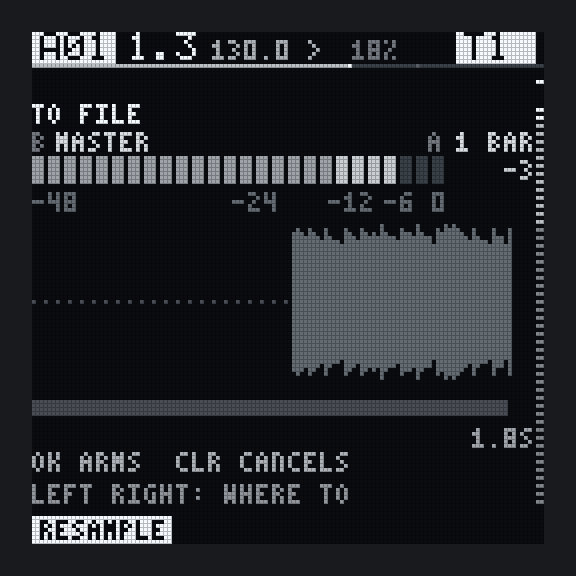
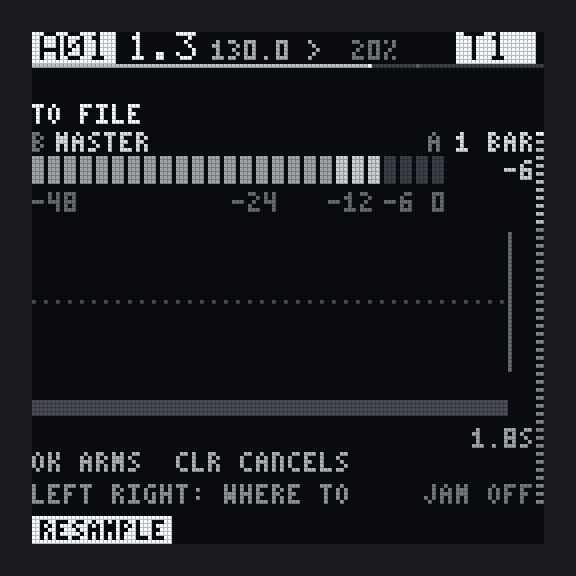
docs, scenario: the three shortcuts in the manual, cheatsheet and W64
New emulator scenario shortcuts drives MIXER's group jumps, the KEYS
track menu and JAM REC on FUNC+REC twice. RESAMPLE's screenshot redrawn.

Claude-Session: https://claude.ai/code/session_01Tw2EaFtqKDN3sm3kKLkEuG

diff --git a/docs/FEATURES.md b/docs/FEATURES.md
@@ -69,7 +69,7 @@ UNIT_CHECKLIST.md's ~550 boxes, 4 are ticked.
 | HOME = GRID, HOME twice = KEYS | v0.1.0 | ◐ | |
 | Lit, self-naming performance pads; mode keys green/red by screen | v0.1.0 | ○ (W8, W20c) | Upper pads are printed TRK 1-7 but are performance pads (Roland's choice) |
 | Arrow-key navigation model (UP/DOWN rows, LEFT/RIGHT sideways, OK picks, CLR back) | v0.1.0 | ○ (5, "Arrow keys") | |
-| Screens: GRID, step page, EDIT (6 pages, 8 on the VA, WAVE, FM4 and GRAIN machines), MACHINE, KIT, SOUNDS, KEYS, MIXER (12 pages), PERFORM, PROJECT (5 pages), SAMPLES, RESAMPLE, menu | v0.1.0 | ◐ (4) | |
+| Screens: GRID, step page, EDIT (6 pages, 8 on the VA, WAVE, FM4 and GRAIN machines), MACHINE, KIT, SOUNDS, KEYS, MIXER (17 pages; UP/DOWN jump a group), PERFORM, PROJECT (5 pages), SAMPLES, RESAMPLE, menu | v0.1.0 | ◐ (4) | |
 | Fixes: the FUNC menu never shows a MUTATE verdict OK would not give; OK in RESAMPLE no longer retargets a take being written | #84 | ○ | |
 
 ## Engines (machines)
@@ -159,7 +159,7 @@ FM4 and GRAIN machines.
 | Pad pressure bends macro A | v0.1.0 | ○ ("Pad feel") | |
 | THROW to delay or reverb | v0.1.0 | ◐ | |
 | MUTATE (rotate, density, velocity, micro, chance, notes), OK keeps, CLR reverts | v0.1.0 | ○ (10) | |
-| **GEN and EVOLVE** (hold OK in GRID): a new drum or melodic part in the key (DENSITY, RANGE, LEAP, WHAT); a track mutating on its own every 1-8 loops, ORBIT or DRIFT, KEEP or HOME | #195, #200 | ○ (W52, W53) | The mutation and amount are PERFORM's MUTATE setting; MIX draws one each turn. Saved in PROJECT.BIN (section 7); HOME is not |
+| **GEN and EVOLVE** (hold OK in GRID or KEYS): a new drum or melodic part in the key (DENSITY, RANGE, LEAP, WHAT); a track mutating on its own every 1-8 loops, ORBIT or DRIFT, KEEP or HOME | #195, #200 | ○ (W52, W53) | The mutation and amount are PERFORM's MUTATE setting; MIX draws one each turn. Saved in PROJECT.BIN (section 7); HOME is not |
 | Note repeat on the pads, pressure as velocity | v0.1.0 | ○ (13f) | Recorded with REC as a roll over LEN (P3, #187; not at 1/4T) |
 | Step stutter: hold REPEAT + STEP loops that step on every track (FUNC: one track) | #151 | ○ (W11) | Sequencer, not audio: sounds stay live. Host-tested; the emulator cannot press pads |
 | Roll rate on LEFT/RIGHT under REPEAT or a rolling pad, on the live strip | #151 | ○ (W11) | |
@@ -176,7 +176,7 @@ FM4 and GRAIN machines.
 | --- | --- | --- | --- |
 | Insert chain per track: drive, filter (LP/BP/HP 12/24), lo-fi, amp, duck, pan, level | v0.1.0 | ◐ (W54) | Off stages cost nothing. A DC blocker follows the drive since #191 |
 | **Sidechain duck**, editable: depth per track, source track, attack/hold/release | v0.1.0, editable since #89 | ○ (13l) | MIXER pages DCK 1-4, DCK 5-8, DUCK. Saved in the kit (KIT.BIN section 6; older kits open with the v0.1.0 duck: track 1, 35%, 3/40/120 ms). Not p-lockable, not in scenes or macros: a lock slot would change the pattern and scene file layouts |
-| **JAM REC**: the whole jam to `/RECORD/JAM_<n>.WAV`, FUNC menu's last row, a REC dot in the top bar | #226 | ○ (W63) | The finished master (as RESAMPLE's MASTER take), never the click or the audition. 48 kHz 24-bit stereo through an Enaga recording stream, 1 MiB ring; stops cleanly on a full card, at 3 h 51 min, at shutdown; a pulled card leaves the file without its header. Card speed beside four sample streams unmeasured |
+| **JAM REC**: the whole jam to `/RECORD/JAM_<n>.WAV`, FUNC+REC twice (RESAMPLE, then again) or the FUNC menu's last row; a REC dot in the top bar and a dim red blink on REC | #226, this PR | ○ (W63, W64) | The finished master (as RESAMPLE's MASTER take), never the click or the audition. 48 kHz 24-bit stereo through an Enaga recording stream, 1 MiB ring; stops cleanly on a full card, at 3 h 51 min, at shutdown; a pulled card leaves the file without its header. Card speed beside four sample streams unmeasured |
 | **CLICK and COUNT-IN**: a metronome, and 1 or 2 bars clicked before a PLAY with REC on (CyDrums S6) | #182 | ○ (W47) | FUNC menu rows. STRATA's own click (Enaga has none), 1 kHz / 1.6 kHz on a bar, after RESAMPLE's tap, so never recorded. A count-in starts the clock at once and holds the sequencer, rolls, stutter and arps for its bars. Internal clock only. Not saved |
 | **Choke groups** 1-4 for any track: a note cuts the other tracks of its group (CyDrums S4) | #181 | ○ (W46) | Push A-D on MIXER's TRK pages; `C1`-`C4` on the strip. A 64-frame fade on the track's output, then its voices are cut. Two notes of a group on the same frame both sound (a block renders whole). Saved in the kit (KIT.BIN section 11; older kits have no groups) |
 | Send A: tempo-synced ping-pong delay | v0.1.0 | ◐ (13c / U4) | |

diff --git a/docs/CONTROLS.md b/docs/CONTROLS.md
@@ -46,7 +46,7 @@ HOME "system", PLAY "◀◀", STOP "▶▶", MIXER "fx", EDIT "rec src".
      second label.**
    - **Arrow pad:** the cursor on the screen. UP/DOWN rows, LEFT/RIGHT sideways. OK picks, CLR
      goes back (or clears, where there is something selected to clear).
-   - **Screen keys:** the screen's pages. EDIT SRC FLTR AMP FX LFO ARP ENV OSC; MIXER's twelve; PROJECT,
+   - **Screen keys:** the screen's pages. EDIT SRC FLTR AMP FX LFO ARP ENV OSC; MIXER's seventeen; PROJECT,
      CHAIN, PATTERN, SETUP, PROJECTS; the step page's field pages; SAMPLES' and KIT's pages of
      eight. On GRID and KEYS, where A-D turn the current EDIT page, they turn that page. The
      one-page screens give them their one sideways setting: MACHINE and SOUNDS the track,
@@ -124,7 +124,7 @@ HOME "system", PLAY "◀◀", STOP "▶▶", MIXER "fx", EDIT "rec src".
 | Key | Plain | FUNC + key (printed second label) | Lit |
 | --- | --- | --- | --- |
 | FUNC | modifier | — | green while held |
-| REC | live record on/off | RESAMPLE ("sampling") | red recording, green on RESAMPLE |
+| REC | live record on/off | RESAMPLE ("sampling"); again JAM REC on/off | red recording, green on RESAMPLE; a dim red blink while JAM REC records |
 | PROJECT | PROJECT: banks, patterns, chain, card | SAMPLES, the selected track's browser ("pool") | green PROJECT, red SAMPLES |
 | HOME | GRID, always. Double-tap (within 0.4 s, on GRID) = KEYS | **FUNC menu** ("system"); again closes it | green GRID, amber KEYS, red menu |
 | PLAY | play | restart from step 1 ("◀◀") | green running |
@@ -139,8 +139,8 @@ HOME "system", PLAY "◀◀", STOP "▶▶", MIXER "fx", EDIT "rec src".
 A list over whatever screen was up. UP/DOWN or A scroll, OK runs the row, LEFT/RIGHT or B change
 a setting row, CLR or FUNC + HOME closes it and returns to the screen it opened over. STEP
 keys, screen keys and pad-row keys do nothing in it. FUNC + CLR / OK stay undo and redo.
-The cursor starts on SAVE every time, so **FUNC + HOME, OK saves**, and the list wraps, so
-**FUNC + HOME, UP, OK starts or stops JAM REC**.
+The cursor starts on SAVE every time, so **FUNC + HOME, OK saves**. JAM REC has a key of its
+own as well: **FUNC + REC twice** (RESAMPLE, then again), as FUNC + EDIT twice is KIT.
 
 | Row | What OK does | Value (LEFT/RIGHT, B, or OK steps) |
 | --- | --- | --- |
@@ -165,7 +165,7 @@ The cursor starts on SAVE every time, so **FUNC + HOME, OK saves**, and the list
 | FREEZE | freeze the selected track (its loop from the next bar line), or unfreeze it | `T3 1 BAR` (1 2 4 8), `T3 WAIT` / `REC` while recording, `T3 ON` frozen |
 | LOOP LEN | | the performance mixer's looper: `4 BAR` (1 2 4 8), what push VALUE + STEP 16 records |
 | LOAD DEMO | OK twice within 2 s: the factory demo project (the boot beat), under a new name | |
-| JAM REC | starts recording the finished master to `/RECORD/JAM_<n>.WAV` and closes the menu (`JAM REC JAM 3`); OK again stops it (`JAM STOPPING`, then `SAVED JAM 3` once the file is closed). The last row: FUNC + HOME, UP, OK | `OFF`, or how long it has run, `4:07`, `1:02:33` |
+| JAM REC | starts recording the finished master to `/RECORD/JAM_<n>.WAV` and closes the menu (`JAM REC JAM 3`); OK again stops it (`JAM STOPPING`, then `SAVED JAM 3` once the file is closed). FUNC + REC on RESAMPLE does the same and stays on RESAMPLE, whose last line shows the time and `FUNC+REC: STOP JAM` (`JAM OFF` when none runs) | `OFF`, or how long it has run, `4:07`, `1:02:33` |
 
 Moved here from: FUNC + PROJECT twice (save), PROJECT's FUNC + UP/DOWN/LEFT/RIGHT (chain,
 sample reload, reload, new), PROJECTS' FUNC + DOWN (save as, still there too), CHAIN's FUNC +
@@ -293,11 +293,13 @@ ALL. FUNC + turn C in PERFORM only duplicated the macro before, so no gesture ch
   `BAR` line while stopped), `EN-` / `EN+` in the live strip. The FUNC help's third PERFORM page
   lists it.
 
-## GEN and EVOLVE (hold OK in GRID)
+## GEN and EVOLVE (hold OK in GRID or KEYS)
 
 Roland, 2026-11-27: generate a drum or melodic part, random but in the key, and let it mutate on
 its own every few loops. `core/generate.hpp`, `core/evolve.hpp`, `app/ui_trackmenu.hpp`. OK in
-GRID with nothing held did nothing, so the hold costs no gesture; a tap still does nothing.
+GRID with nothing held did nothing, so the hold costs no gesture; a tap still does nothing. KEYS
+has the same hold (usability review, 2026-11-28): GEN on a melodic track while playing the pads.
+There the pads stay the piano, and the arrows are the menu's until CLR closes it (`KEYS`).
 
 | Row | Does | Says |
 | --- | --- | --- |

diff --git a/docs/MANUAL.md b/docs/MANUAL.md
@@ -430,7 +430,7 @@ level: OK keeps it, CLR takes it back.
 
 <p><img src="screens/trackmenu.png" width="256" alt="The track menu, held OK in GRID: GENERATE and its settings, EVOLVE, MODE, MUTATION, AMOUNT"></p>
 
-**Hold OK in GRID** for the track menu. **GENERATE** writes a new part on the selected track: on
+**Hold OK in GRID** (or in KEYS) for the track menu. **GENERATE** writes a new part on the selected track: on
 a drum track a rhythm, busier on the beats than between them, with accents and ghost notes; on a
 melodic track a line in the pattern's key and scale too, starting on the root. DENSITY sets how
 busy, RANGE how many octaves the line may climb, LEAP how often it jumps, and WHAT whether to
@@ -567,7 +567,8 @@ are the white keys C to C, the upper pads above them the black keys (C#, D#, F#,
 two upper pads with no black key are octave down (between E and F) and octave up (after B). Pads
 play at the strength you hit them and hold the note while down; the pads in the scale light in
 the track's colour, the root brightest; the screen draws the same keyboard. LEFT/RIGHT change
-octave, UP/DOWN the track, and FUNC + a pad still mutes on the bar. The STEP keys are the track's
+octave, UP/DOWN the track, and FUNC + a pad still mutes on the bar. **Hold OK** for the track menu
+(GENERATE and EVOLVE, below), as in GRID; the pads stay the piano while it is open. The STEP keys are the track's
 steps, as on GRID, with the pad-row keys for the step page, so you can play a line on the pads and
 place or fix steps at the same time. Press **REC** (it lights red) while playing and what you play is
 recorded onto the selected track, quantized by the SETUP page's QUANTIZE amount (100% by
@@ -1547,7 +1548,7 @@ tracks 3 and 4 is separate and still works without a group.
 
 <p><img src="screens/mixer.png" width="256" alt="MIXER: the faders of tracks 1-4"> <img src="screens/mixer_dly.png" width="256" alt="MIXER's DLY page"></p>
 
-<sub>MIXER's first page, all eight faders with A-D on tracks 1-4, and the DLY page. The screen keys walk all seventeen: TRK 1-4, TRK 5-8, DCK 1-4, DCK 5-8, DUCK, WID 1-4, WID 5-8, DLY, DLY+, REV, REV+, ROUTE, CHO 1-4, CHO 5-8, CHO, MST, EQ.</sub>
+<sub>MIXER's first page, all eight faders with A-D on tracks 1-4, and the DLY page. The screen keys walk all seventeen: TRK 1-4, TRK 5-8, DCK 1-4, DCK 5-8, DUCK, WID 1-4, WID 5-8, DLY, DLY+, REV, REV+, ROUTE, CHO 1-4, CHO 5-8, CHO, MST, EQ. UP/DOWN jump a group at a time, to its first page: the levels (TRK), the duck (DCK), the widths (WID), the delay (DLY), the reverb (REV), the chorus (CHO 1-4) and the master (MST).</sub>
 
 Each send has a second mode for long, washy sounds. They sit on the MIXER pages beside their
 send, `DLY+` after `DLY` and `REV+` after `REV`. **Push A** on either page (or turn A) flips the
@@ -1697,11 +1698,12 @@ muted track bounces as silence, so unmute it first.
 
 ### Recording the whole jam: JAM REC
 
-RESAMPLE keeps 30 seconds. To keep a whole set, use **JAM REC**, the FUNC menu's last row:
-FUNC+HOME, UP, OK. The menu closes with `JAM REC JAM 3`, a dot blinks in the top bar before the
-load, and everything that comes out of STRATA goes to `/RECORD/JAM_<n>.WAV` until you stop it:
-FUNC+HOME, UP, OK again (`JAM STOPPING`, then `SAVED JAM 3`). The row shows how long it has run,
-`4:07` or `1:02:33`.
+RESAMPLE keeps 30 seconds. To keep a whole set, use **JAM REC**: press **FUNC+REC twice**, once
+for RESAMPLE and again to start it (`JAM REC JAM 3`). A dot blinks in the top bar before the load,
+the REC key blinks a dim red, and everything that comes out of STRATA goes to
+`/RECORD/JAM_<n>.WAV` until you stop it with FUNC+REC on RESAMPLE again (`JAM STOPPING`, then
+`SAVED JAM 3`). RESAMPLE's last line shows how long it has run, `4:07` or `1:02:33`, and the key
+that stops it. The FUNC menu's JAM REC row does the same, with the time on the row.
 
 It records what RESAMPLE's MASTER take hears: every track, the sends, the master effects,
 REPEAT and the tape stop. The metronome and the sample browser's audition are for you and are

diff --git a/docs/CHEATSHEET.md b/docs/CHEATSHEET.md
@@ -46,7 +46,7 @@ pads and the performance mixer.
 | SOUNDS | OK in EDIT or MACHINE on a drum, VA, WAVE or FM4 track; OK in EDIT on a GRN track | Load a factory sound into that track only; AS WAS puts yours back |
 | MIXER | MIXER | Levels, the sidechain duck, delay, reverb, routing, master, kill EQ |
 | PERFORM | FUNC+MIXER | Scenes, morph, macros, mutation |
-| Track menu | **Hold OK** in GRID | GENERATE a drum or melodic part (DENSITY, RANGE, LEAP, WHAT); EVOLVE every 1-8 loops (mutation MIX: a different one each turn), ORBIT or DRIFT, KEEP or HOME; saved with the project |
+| Track menu | **Hold OK** in GRID or KEYS | GENERATE a drum or melodic part (DENSITY, RANGE, LEAP, WHAT); EVOLVE every 1-8 loops (mutation MIX: a different one each turn), ORBIT or DRIFT, KEEP or HOME; saved with the project |
 | PROJECT | PROJECT | Banks and patterns, key and scale, the card. On the slots: **hold OK** for the pattern menu (COPY, PASTE, CLEAR, DOUBLE; OK runs, PASTE/CLEAR/DOUBLE twice). Shortcuts: FUNC+UP copies, FUNC+DOWN twice pastes, FUNC+LEFT twice clears |
 | CHAIN | PROJECT, then screen key RIGHT | The pattern chain as a list |
 | PATTERN | PROJECT, screen key RIGHT twice | Master length (LEN), swing (SWG), FEEL and each track's own swing of the playing pattern |
@@ -179,7 +179,7 @@ Page 1 NOTE VEL LEN MICR, page 2 PROB COND RTCH RAMP, page 3 ACNT SLID CHRD.
 | KEYS | Track | Octave (OCT 0-7) | EDIT page (for A-D) | Step page | Current EDIT page params | — | Copy / paste |
 | MACHINE | Machine | Machine column (3 over) | Track | Step page | A: machine, B: MIDI OUT channel (OFF, 1-16) | SMP/GRN: open SAMPLES; drums and synths: open SOUNDS / — | Copy / paste |
 | KIT | Slot | Page of 8 slots | Page of 8 slots | — | A: slot | Recall (twice) / back to MACHINE | DOWN: save here, UP: read the card again |
-| MIXER | — | Page (12) | Page | Step page | Levels or page fields; on EQ, push A-C kills a band; on DLY+ and REV+, push A flips the mode | — / clear | Copy / paste |
+| MIXER | Group of pages: TRK DCK WID DLY REV CHO MST | Page (17) | Page | Step page | Levels or page fields; on EQ, push A-C kills a band; on DLY+ and REV+, push A flips the mode | — / clear | Copy / paste |
 | SAMPLES | Entry | Page of 8 | Page of 8 | — | A: entry; push A: hear the file (twice while playing) / stop | Load file or open folder / up a folder (at the top: back) | UP: read the folder again |
 | SOUNDS | Entry | First / last entry | Track | — | A: entry | Load into the track (AS WAS: put yours back) / back | — |
 | RESAMPLE | Bars 1/2/4/8 | Destination FILE, TRK 1-8 | Destination | Step page | A: bars, B: source, C: input level | Arm / cancel | Copy / paste |
@@ -207,7 +207,8 @@ setting row (OK steps it too), CLR or FUNC+HOME close it. FREEZE: the selected t
 bar loop of itself from RAM and stops computing; OK again unfreezes. CLICK: a click on every beat (ON/OFF). COUNT-IN: OFF, 1 BAR, 2 BAR clicked
 before a PLAY from stop with REC on (`COUNT-IN 4` .. `1`); internal clock only; neither saved.
 JAM REC: OK records the finished master to `/RECORD/JAM_<n>.WAV` (24-bit, about 1 GB an hour,
-up to 3 h 51 min) until OK again; a dot blinks before the load meanwhile; no click or audition.
+up to 3 h 51 min) until OK again; a dot blinks before the load and the REC key a dim red meanwhile;
+no click or audition. FUNC+REC twice (RESAMPLE, then again) starts and stops it too.
 **PROJECTS:** UP/DOWN or A move, LEFT/RIGHT page by 8. OK twice within 2 s opens the project
 under the cursor (AGAIN TO OPEN; it throws away unsaved work and stops the transport).
 FUNC+DOWN (or the menu's SAVE AS) is SAVE AS: A or LEFT/RIGHT move, B, VALUE or UP/DOWN change the character, OK saves

diff --git a/docs/HANDOFF.md b/docs/HANDOFF.md
@@ -26,7 +26,7 @@ the top of `docs/UNIT_CHECKLIST.md` is the next pass.
 | `make -C host test` | **3,923,641 checks, 0 failures** on `main` after #217 (2026-11-28): `core/`, `dsp/` and all of `app/`. The same under ASan and UBSan, with `ASAN_OPTIONS=detect_leaks=0` |
 | CI | `.github/workflows/ci.yml` on every PR: the suite with GCC, again under ASan and UBSan at -O1, the layout check, the screenshots, and the repo checks (`audit_commands.sh`, `check_rules.sh`, `enaga_check.sh`, `check_scripts.sh`, the packaging and build-cache scripts' tests, the card builder's tests). A docs-only PR skips the test jobs. `tools/ci_local.sh` runs the same lanes in WSL. `enaga-upstream.yml` reports new Enaga releases weekly. No device build or scenario runs in CI |
 | `tools/build.sh` | links. Last measured image (cl6x, 2026-11-25): payload 1,224,160 bytes, bss 1,605,248; no BOOT / MCU / SPI sections. `tests/test_memory.cpp` reads these two figures from here, so update both together |
-| `tools/scenarios.sh` | **51 scenarios**, run on Roland's PC only. All 50 that existed passed with cl6x on 2026-11-27 with the chorus and stereo width in; worst **34.20%**, `genload` (GENERATE at full density on all eight tracks). The v0.5.0 build: worst 26.34% cl6x, 55.06% GCC-only. Every run's figures, and what each change cost, are in `docs/BUDGET.md`. `tools/profile_guest.py` gives a scenario's guest profile by function |
+| `tools/scenarios.sh` | **52 scenarios**, run on Roland's PC only. All 50 that existed passed with cl6x on 2026-11-27 with the chorus and stereo width in; worst **34.20%**, `genload` (GENERATE at full density on all eight tracks). The v0.5.0 build: worst 26.34% cl6x, 55.06% GCC-only. Every run's figures, and what each change cost, are in `docs/BUDGET.md`. `tools/profile_guest.py` gives a scenario's guest profile by function |
 | unit | v0.3.1 and builds from `main` boot and play. Load on the top line (2026-11-27, main after #208): A01 15-28%, GENERATE on all tracks 40-60%, so the unit reads about 1.2-1.8x the emulator on a light beat and 2.0-2.4x on dense parts (`docs/BUDGET.md`, "GENERATE on every track"). MAX readings from SETUP are still owed |
 | memory | init takes **97.32 MiB of a 120 MiB heap**: 22.68 MiB spare against an 8 MiB headroom rule. `tests/test_memory.cpp` itemises it. Never checked on the unit |
 | milestones | M0–M7 code-complete; every load and feel exit criterion waits for the unit (`docs/PLAN.md`) |
@@ -40,7 +40,7 @@ the top of `docs/UNIT_CHECKLIST.md` is the next pass.
    release). Features keep landing on `main`; 1.0 comes when Roland says so. No thread tags or
    releases on its own: a release runs from its own thread (`docs/release/RELEASING.md`).
 1. **On the unit: the walkthrough** at the top of `docs/UNIT_CHECKLIST.md`: N1-N7 (Enaga 0.4),
-   the smoke test S1-S20, then W1-W63, on a cl6x build from `main` with Enaga 0.4.0 firmware.
+   the smoke test S1-S20, then W1-W64, on a cl6x build from `main` with Enaga 0.4.0 firmware.
 2. **Write the readings down where they belong**: unit rows in `docs/BUDGET.md` (MAX from SETUP
    on A01 and on GENERATE, to pin both ratios), ticks in the reference half of
    `docs/UNIT_CHECKLIST.md`, the Unit column of `docs/FEATURES.md`, and anything odd as an issue

diff --git a/docs/UNIT_CHECKLIST.md b/docs/UNIT_CHECKLIST.md
@@ -5,7 +5,7 @@ On a unit that still runs Enaga 0.3.0, update it to 0.4.0 first and do **the Ena
 most likely to break only on the hardware. If it passes, the walkthrough is worth its two hours;
 if an item fails, report that first.
 
-Then **the walkthrough** (W1-W63, about 210 minutes): everything merged since v0.1.0,
+Then **the walkthrough** (W1-W64, about 215 minutes): everything merged since v0.1.0,
 in an order that plays from one item into the next. Report back by number, for example
 `W3 fail: reads 055`. After it comes **the full walkthrough**, first written for the v0.1.0 card
 on 2026-11-22: the PC runs (E1-E16), a section per feature with the deeper checks and the U
@@ -849,6 +849,18 @@ free.
 - Start another, let it run 30 s with four streamed samples playing if you have them, then
   power off with it running. On the PC the second file has the next number and plays to the
   end. `____`
+
+**W64. Usability quick wins: MIXER groups, the KEYS track menu, JAM REC on FUNC+REC (5 min).**
+Beat playing, A01, a card with some space.
+- MIXER, then DOWN: `DCK 1-4`; DOWN again `WID 1-4`, then `DLY`, `REV`, `CHO 1-4`, `MST` and
+  round to `TRK 1-4`. UP from `TRK 1-4` is `MST`. LEFT/RIGHT still go one page. `____`
+- HOME twice for KEYS, hold OK half a second: the track menu (`TRACK T1`, `>GENERATE`). The pads
+  still play notes; UP/DOWN move the menu's row, not the track; OK on GENERATE writes a part.
+  CLR: `KEYS`, the keyboard back. `____`
+- FUNC+REC: RESAMPLE, the last line reads `LEFT RIGHT: WHERE TO` and `JAM OFF`. FUNC+REC again:
+  `JAM REC JAM n`, the REC key blinks a dim red with the top bar's dot, and the last line reads
+  `FUNC+REC: STOP JAM` with the time counting. FUNC+REC again: `JAM STOPPING`, `SAVED JAM n`,
+  REC dark. `____`
 
 **Done.** Reply with the numbers: `all pass`, or for example `W3 fail: reads 055`,
 `W14: MAX 61.2`.

diff --git a/CHANGELOG.md b/CHANGELOG.md
@@ -8,6 +8,15 @@ the project file format or the controls.
 
 ### Added
 
+- **JAM REC on FUNC+REC twice.** FUNC+REC opens RESAMPLE as before; pressed again there it
+  starts JAM REC, and again stops it. RESAMPLE's last line shows the time and `FUNC+REC: STOP
+  JAM` (`JAM OFF` when none runs), and the REC key blinks a dim red with the top bar's dot while
+  a jam records. The FUNC menu's JAM REC row stays.
+- **MIXER: UP/DOWN jump a group of pages.** The levels, the duck, the widths, the delay, the
+  reverb, the chorus and the master, each to its first page and round the ends; LEFT/RIGHT still
+  go page by page.
+- **The track menu in KEYS.** Hold OK in KEYS for GENERATE and EVOLVE, as in GRID; the pads stay
+  the piano while it is open. New emulator scenario `shortcuts` for the three.
 - **JAM REC: the whole jam to the card.** The FUNC menu's last row (FUNC+HOME, UP, OK) records
   everything STRATA plays to `/RECORD/JAM_<n>.WAV` until OK again: 48 kHz 24-bit stereo, about
   1 GB an hour, up to 3 h 51 min. The finished master as RESAMPLE hears it, never the click or
@@ -57,6 +66,8 @@ the project file format or the controls.
 
 ### Fixed
 
+- **A JAM REC start the card refuses no longer uses up a number.** The jam's number is taken
+  only once its file exists, so the next jam that starts is the next after the last real one.
 - **The CPU guard no longer thins chords that were never in danger.** With generated parts on
   every track the unit read 40-60% and showed `GUARD1`-`GUARD4`, shedding POLY voices and grains
   with no block anywhere near an overrun. The guard averaged the load over 11 ms, which follows
